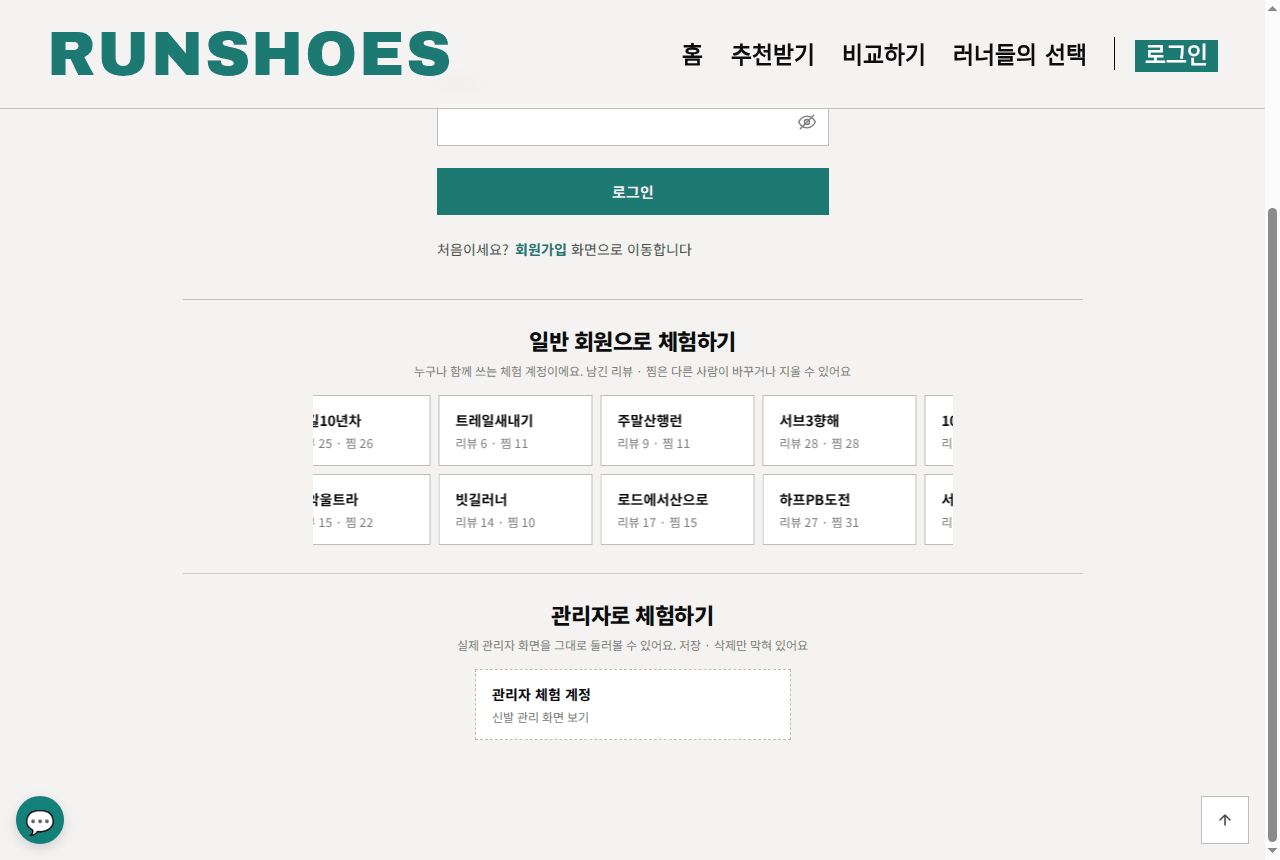
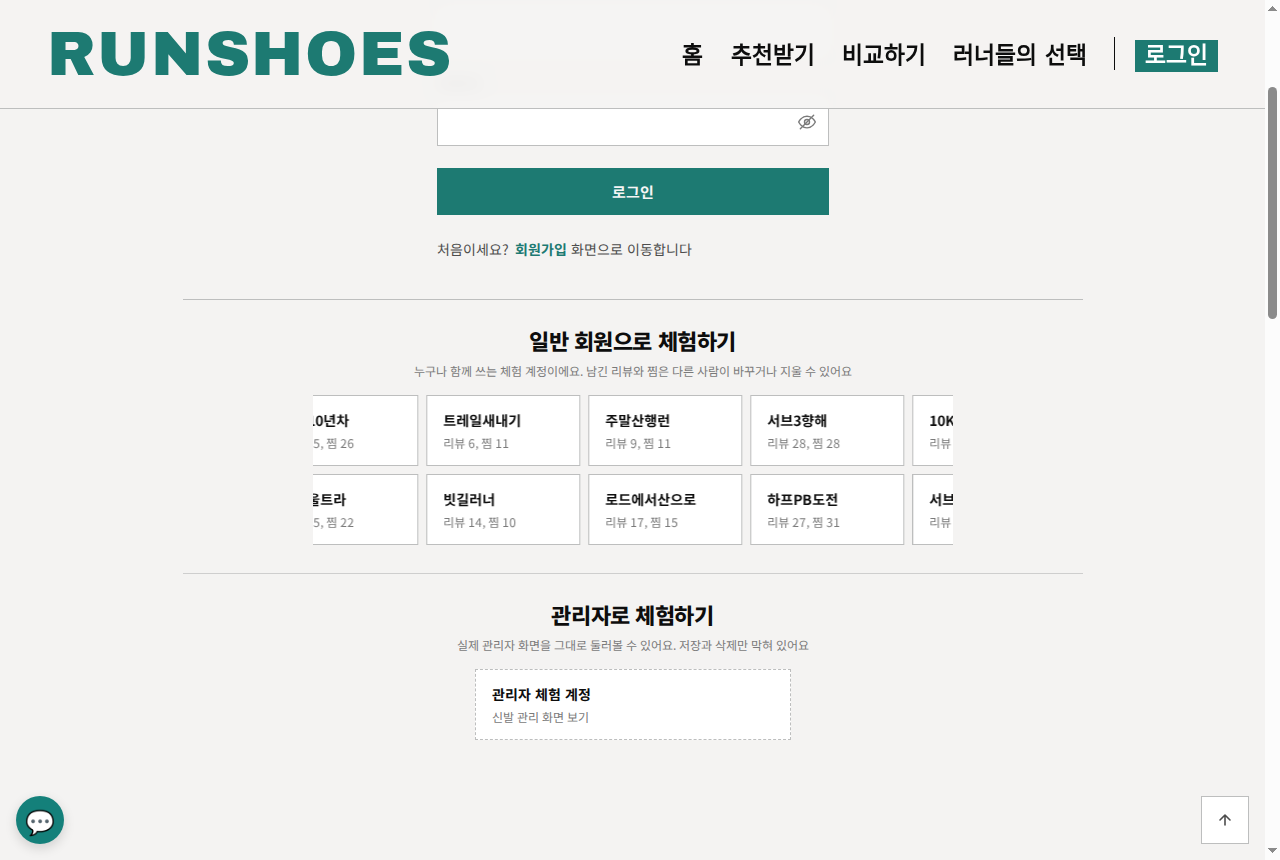
docs: 체험 카드 사진을 바뀐 로그인 화면으로 다시 찍음
로그인 화면의 가운뎃점을 고친 판이 운영에 나간 뒤 체험 카드 사진을
다시 찍었습니다. 고치기 전 사진이 남아 있으면 글이 지금 화면을 따르지
않게 됩니다.

소개 절의 휴대폰 사진은 떠 있는 단추 둘이 구성도를 가려 그 둘을 감추고
찍었기에, 그 사실을 사진 아래에 한 줄 적었습니다.

diff --git a/portfolio/07_login.md b/portfolio/07_login.md
@@ -24,6 +24,8 @@
 
 ![휴대폰 화면의 구성도. 위에서 아래로 브라우저, Cloudflare 터널, 쿠버네티스 묶음(앱과 챗봇, MySQL과 리뷰 요약 배치, Jenkins와 Harbor와 Argo CD), GitHub, 점선으로 묶은 호스트(Ollama, 임베딩 모델 서버)가 세로로 놓이고, 챗봇과 리뷰 요약 배치에서 호스트로 가는 선이 오른쪽 가장자리를 따라 내려갑니다](img/07_login_about_mobile.png)
 
+휴대폰 사진은 화면 아래 양쪽에 늘 떠 있는 단추 둘(왼쪽 챗봇, 오른쪽 맨 위로)이 구성도 아래쪽을 가려, 이 사진에서만 그 둘을 감추고 찍었습니다.
+
 구성도는 넓은 화면에서는 가로로, 휴대폰에서는 세로로 그립니다. 가로 그림을 휴대폰 폭으로 줄이면 글자가 읽기 어려울 만큼 작아져서 두 장을 따로 그렸습니다. 그림에는 바깥에서 들어오는 길, 쿠버네티스(여러 서버에 앱을 나눠 띄우고 관리하는 도구) 안에서 도는 것, 쿠버네티스 밖에서 그래픽카드를 쓰는 모델 서버 둘, 코드를 올리면 새 판이 배포되는 길이 함께 있습니다. [docs:02_screens.md:97] 휴대폰부터 넓은 모니터까지 여섯 가지 화면 폭에서, 화면이 옆으로 넘치거나 그림 글자가 겹치지 않는지 재고 사진으로 다시 보았습니다. [docs:02_screens.md:98]
 
 ## 로그인은 두 가지 토큰으로 지킵니다
